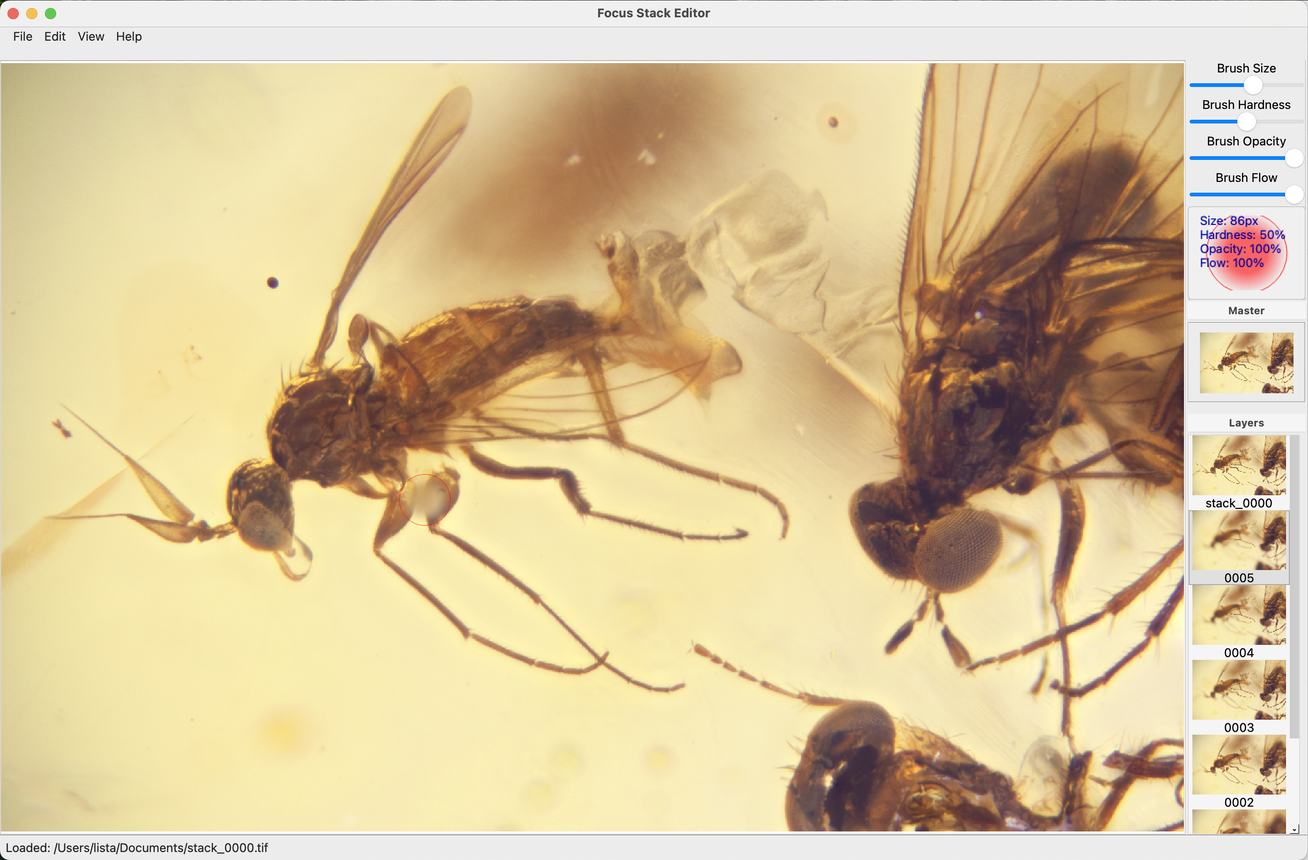
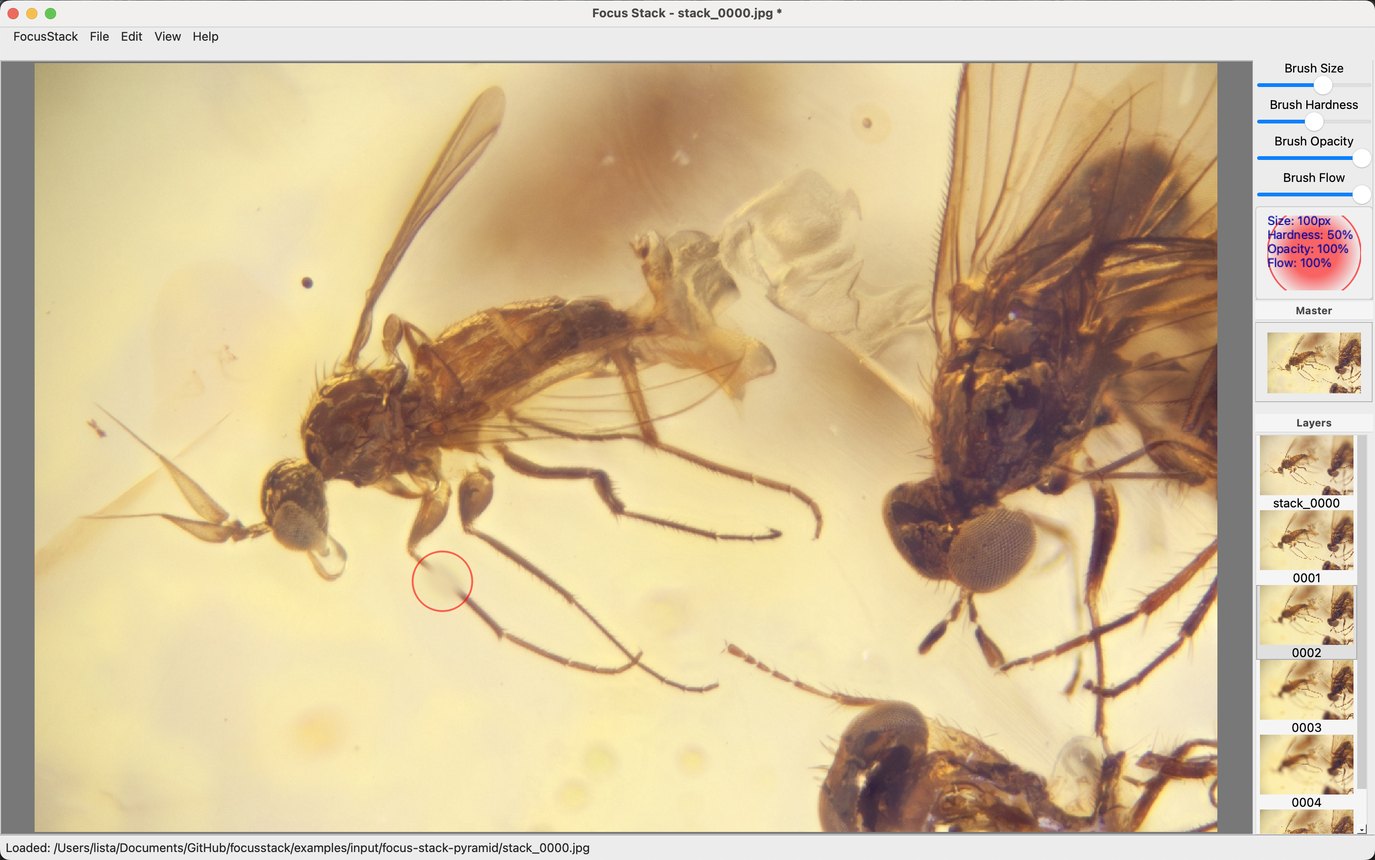
added some GUI documentation [ci skip]

diff --git a/src/focusstack/config/gui_constants.py b/src/focusstack/config/gui_constants.py
@@ -13,7 +13,7 @@ class _GuiConstants:
     NEW_PROJECT_VIGNETTING_CORRECTION = False
     NEW_PROJECT_ALIGN_FRAMES = True
     NEW_PROJECT_BALANCE_FRAMES = True
-    NEW_PROJECT_BUNCH_STACK = True
+    NEW_PROJECT_BUNCH_STACK = False
     NEW_PROJECT_BUNCH_FRAMES = {'min': 2, 'max': 20}
     NEW_PROJECT_BUNCH_OVERLAP = {'min': 0, 'max': 10}
     NEW_PROJECT_FOCUS_STACK_PYRAMID = True

diff --git a/docs/gui.md b/docs/gui.md
@@ -1,0 +1,68 @@
+### Graphical User Intreface
+
+The GUI can start either from a consome command line, or dowloading the application from the (releases page)[https://github.com/lucalista/focusstack/releases] as ```zip``` archive.
+
+Via console, the GUI starts with:
+
+```console
+> focusstack
+```
+
+The GUI has two main working areas: *Project* and *Retouch*. 
+Switcing from *Project* to *Retouch* can be done with the *FocusStack* main menu.
+
+## Project area
+
+When the app starts, it proposes to create a new project.
+
+<img src='../img/gui-project-new.png' width="600">
+
+The first thing to do is to select the folder that contains the source images, 
+that can be either in jpeg or tiff format, but with 8 bit or 16 bit depth.
+
+More folders will be created with intermediate processing stages, located in the same parent folder
+that contains the selected source image folder.
+
+The newly created project consists in a single job that contains more actions.
+Each action produces a folder as output that has, by default, the action's name.
+Some actions can be combined in order to produce a single intermediate output.
+This is the case for alignment, balancing, etc.
+
+More jobs can be added within the same project. For instance, if the same processing has
+to be applied to multiple source folders, a job can be duplicated and the input folder can be
+modifed in each folder.
+
+It is possible to run a single job, or all jobs within a project.
+
+<img src='../img/gui-project-run.png' width="600">
+
+When the job runs, a log tab is created and the running can be monitored.
+
+When intermediate results are provided, optionally clickable thumbnail are shown, like in the above image.
+
+Different actions can optionally display istograms or other intermediate results.
+
+When the job finishes, a *Retouch* button is enabled, which opens the output image into the retouch area.
+
+## Retouch area
+
+<img src='../img/gui-retouch.png' width="600">
+
+In the retouch area it is possible to apply the final correction to the stacked image.
+
+By default, the stacked frames together with the focus-stacked image are opened.
+
+Using a configurable brush, it is possible to copy small areas from a specific layer, including
+the focus-stacked image, to the master layer in order to correct small decects, like dust grains
+in front of the main subject, artiefacts and so on.
+
+The retouched master image can be saved either individually or as multilayer TIFF file (in general
+much heavier) for further editing. It is also possible to manually import source layers in case
+the user prefers to avoid managing heavy TIFF files.
+
+## Final retouch
+
+The final retouch, including color and luminosity balance, sharpness enhancement and
+so on can be applied with your favurite image processing application, like [GIMP](https://www.gimp.org/)
+or other.
+

diff --git a/docs/main.md b/docs/main.md
@@ -44,7 +44,7 @@ Examples in jupyter notebooks are provided.
 
 ## Graphical User Interface
 
-A GUI based on ```PySide6``` is also available, still experimental and undocumented.
+A GUI based on ```PySide6``` is also available.
 It basically reflects the structure of the python modules documented below, with the corresponding configurable parameterrs.
 
 Multulayer TIFF files generated by the ```MultiLayer``` module can be edidted for the final manual retouch.
@@ -52,13 +52,8 @@ Multulayer TIFF files generated by the ```MultiLayer``` module can be edidted fo
 To run the GUI, from the main package directory run:
 
 ```console
-> focusstack-main
+> focusstack
 ```
-
-<img src='../img/gui-main.png' width="600">
-
-<img src='../img/gui-retouch.png' width="600">
-
 
 ## Documentation
 - [Job creation and processing pipeline](../docs/job.md)
@@ -68,6 +63,7 @@ To run the GUI, from the main package directory run:
 - [Multilayer image](../docs/multilayer.md)
 - [Noisy pixel masking](../docs/noise.md)
 - [Vignetting correction](../docs/vignetting.md)
+- [Graphical User Interface](../docs/gui.md)
 
 ## Requirements
 

diff --git a/docs/alignment.md b/docs/alignment.md
@@ -1,4 +1,4 @@
-### Alignment and registration: scale, tanslation and rotation correction, or full perspective correction
+# Alignment and registration: scale, tanslation and rotation correction, or full perspective correction
 
 ```python
 job.add_action(Actions("align", [AlignFrames(*options)])
